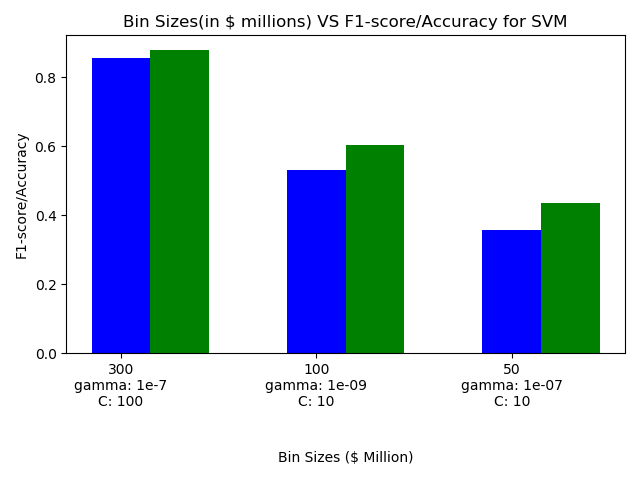
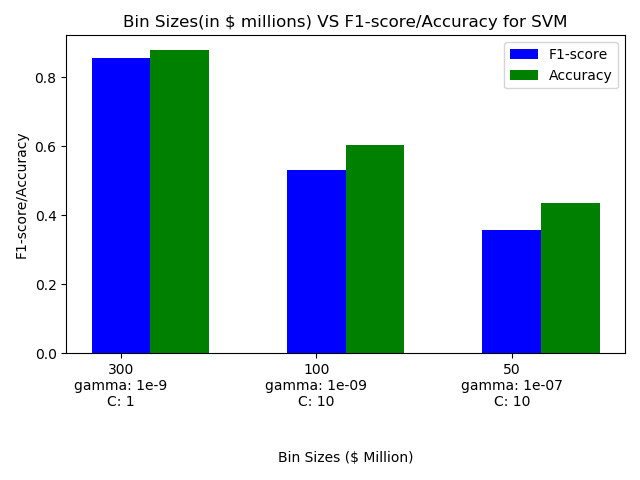
Plots changes

Changed region(s): [[0.7812, 0.0938, 0.9688, 0.1875], [0.1562, 0.8125, 0.2188, 0.8438], [0.25, 0.7812, 0.2812, 0.8125]]

diff --git a/PrithviCodes/plot_line_cfgam.py b/PrithviCodes/plot_line_cfgam.py
@@ -1,0 +1,93 @@
+
+
+
+
+
+
+import numpy as np
+import matplotlib.pyplot as plt
+
+import pandas as pd
+
+C300 = np.load('C300.npy')
+f_gam = np.load('Gammas300.npy')
+# xval = np.load('Xvalues.npy')
+
+gamma_list = [1e-9, 1e-8, 1e-7, 1e-6, 1e-5, 0.0001, 0.001,0.01,0.1,1,10,100,1000]
+orig_gamma_list = ['1e-9', '1e-8', '1e-7', '1e-6', '1e-5', '0.0001', '0.001','0.01','0.1','1','10','100','1000']
+gamma_len = list(range(13))
+
+C_list = [0.01, 0.1, 1, 10 , 100, 1000, 10000, 100000, 1000000, 10000000, 100000000, 1000000000, 10000000000]
+orig_C_list = ['0.01', '0.1', '1', '10' , '1e+2', '1e+3', '1e+4', '1e+5', '1e+6', '1e+7', '1e+8', '1e+9', '1e+10']
+
+
+C_list = list(range(len(C_list)))
+#fscore = [0.01, 0.1, 1,10 , 100, 1000, 10000, 100000, 1000000, 10000000, 100000000, 1000000000, 10000000000]
+
+#C300 = [0.8062, 0.8064, 0.8067]
+#fscore = [0.01, 0.1, 0.5]
+
+print(C300)
+print(f_gam)
+print(C_list)
+print(gamma_list)
+
+#print(gam)
+#print(len(gam))
+#print(fscore)
+#print(len(fscore))
+#print(gamma_list)
+#print(len(gamma_list))
+
+
+#x = range(ytest.size)
+
+
+# '''
+# f1 score vs c hyperparameters 
+fig, ax = plt.subplots()
+
+ax.plot(C_list, list(C300))
+
+ax.set(xlabel='time (s)', ylabel='voltage (mV)',
+       title='About as simple as it gets, folks')
+ax.grid()
+
+plt.legend(loc='upper left');
+
+#plt.yticks(range(len(ypredSorted)), [val for val in ypredSorted])
+
+plt.title("F1-score VS C hyperparameter")
+plt.xticks(range(13), orig_C_list, rotation=45)
+plt.xlabel("Parameter: C")
+plt.ylabel("F1-score")
+plt.tight_layout()
+plt.savefig('Line_chart_C_f1score.png')
+#plt.show()
+# '''
+plt.clf()
+
+
+'''
+# for gamma
+
+fig, ax = plt.subplots()
+
+ax.plot(gamma_len, list(f_gam))
+
+
+ax.grid()
+
+plt.legend(loc='upper right');
+
+#plt.yticks(range(len(ypredSorted)), [val for val in ypredSorted])
+
+plt.title("F1-score VS Gamma hyperparameter")
+plt.xticks(range(13), orig_gamma_list, rotation=45)
+plt.xlabel("Parameter: Gamma")
+plt.ylabel("F1-score")
+plt.tight_layout()
+plt.savefig('Line_chart_gamma_f1score.png')
+plt.show()
+
+# '''

diff --git a/PrithviCodes/plot_scatter.py b/PrithviCodes/plot_scatter.py
@@ -32,14 +32,14 @@ fig = plt.figure()
 ax2 = fig.add_subplot(111)
 
 ax2.scatter(x, ytestSorted, s=10, c='b', marker="s", label='Actual Revenue')
-ax2.scatter(x,ypredSorted, s=10, c='r', marker="o", label='Predicted Revenue')
+ax2.scatter(x,ypredSorted, s=10, c='g', marker="o", label='Predicted Revenue')
 ##plt.plot((ytest+ypred)/2)
-plt.errorbar(x, (ytestSorted+ypredSorted)/2, yerr=np.abs(ytestSorted-ypredSorted)/2, xlolims=True, label='error bar', fmt = ',')
+plt.errorbar(x, (ytestSorted+ypredSorted)/2, yerr=np.abs(ytestSorted-ypredSorted)/2, xlolims=True, label='error bar', fmt = ',', linewidth=0.3, color='red')
 plt.legend(loc='upper left');
 
 #plt.yticks(range(len(ypredSorted)), [val for val in ypredSorted])
 
-plt.title("Actual Revenue vs Predicted Revenue, sorted by Actual Revenue")
+plt.title("Actual Revenue vs Predicted Revenue, sorted by Actual Revenue (SVM)")
 plt.xlabel("Particular x data point")
 plt.ylabel("Revenue (Million $)")
 

diff --git a/PrithviCodes/plot_bar_hyper.py b/PrithviCodes/plot_bar_hyper.py
@@ -17,12 +17,12 @@ d[100] = 0.5301725328598704
 d[50] = 0.35620644263291756
 
 gam = {}
-gam[300] = "gamma: 1e-7"
+gam[300] = "gamma: 1e-9"    # changed
 gam[100] = "gamma: 1e-09"
 gam[50] = "gamma: 1e-07"
 
 C = {}
-C[300] = "C: 100"
+C[300] = "C: 1"
 C[100] = "C: 10"
 C[50] = "C: 10"
 
@@ -67,8 +67,8 @@ plt.ylabel('F1-score/Accuracy')
 ax.set_xlabel("Bin Sizes ($ Million)", labelpad=30)
 #plt.xlabel('Revenue $ (Million)', 30)
 plt.tight_layout()
-
-#plt.show()
+plt.legend()
+# plt.show()
 
 plt.savefig('BinVSF1SVM_2.png')
 

diff --git a/README.md b/README.md
@@ -266,6 +266,20 @@ What is interesting is that the PCA data with normalization performed worse than
 
 ### SVM 
 
+<p align="center">
+  <img src="PrithviCodes/BinVSF1SVM_2.png" >
+</p>
+<p align="center">
+  <img src="PrithviCodes/Scatter_predVSActual.png" >
+</p>
+
+<p align="center">
+  <img src="PrithviCodes/plots/Line_chart_C_f1score.png" >
+</p>
+<p align="center">
+  <img src="PrithviCodes/plots/Line_chart_gamma_f1score.png" >
+</p>
+
 ### Random Forest
 
 
